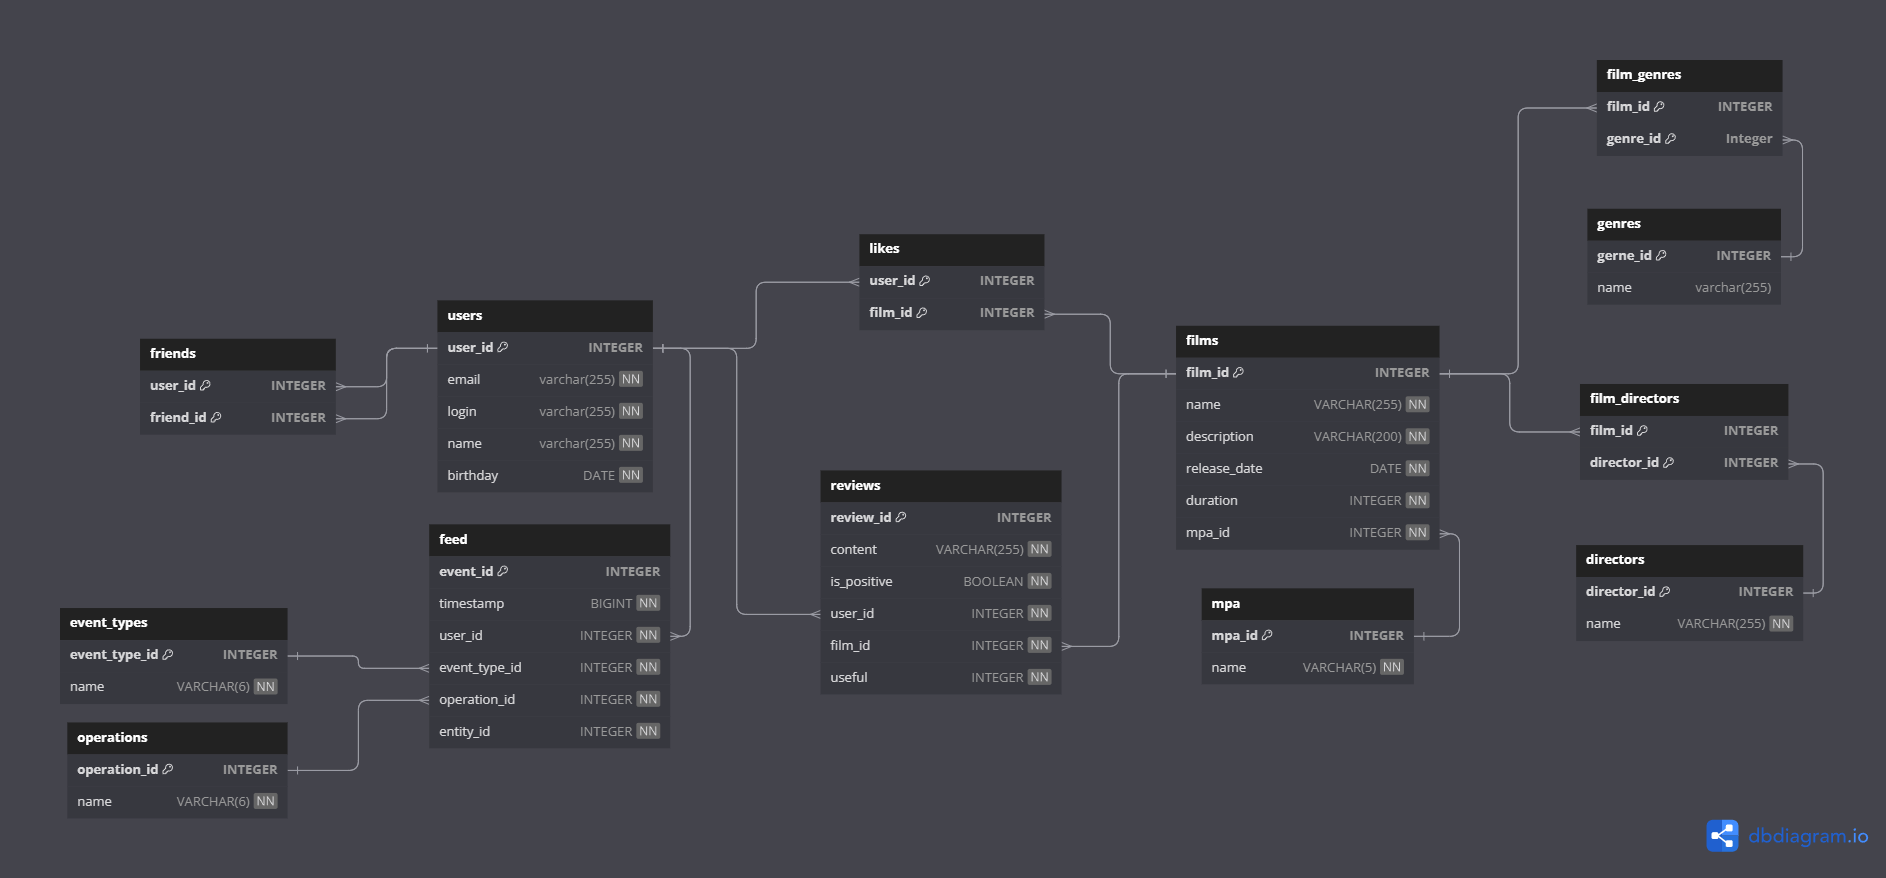
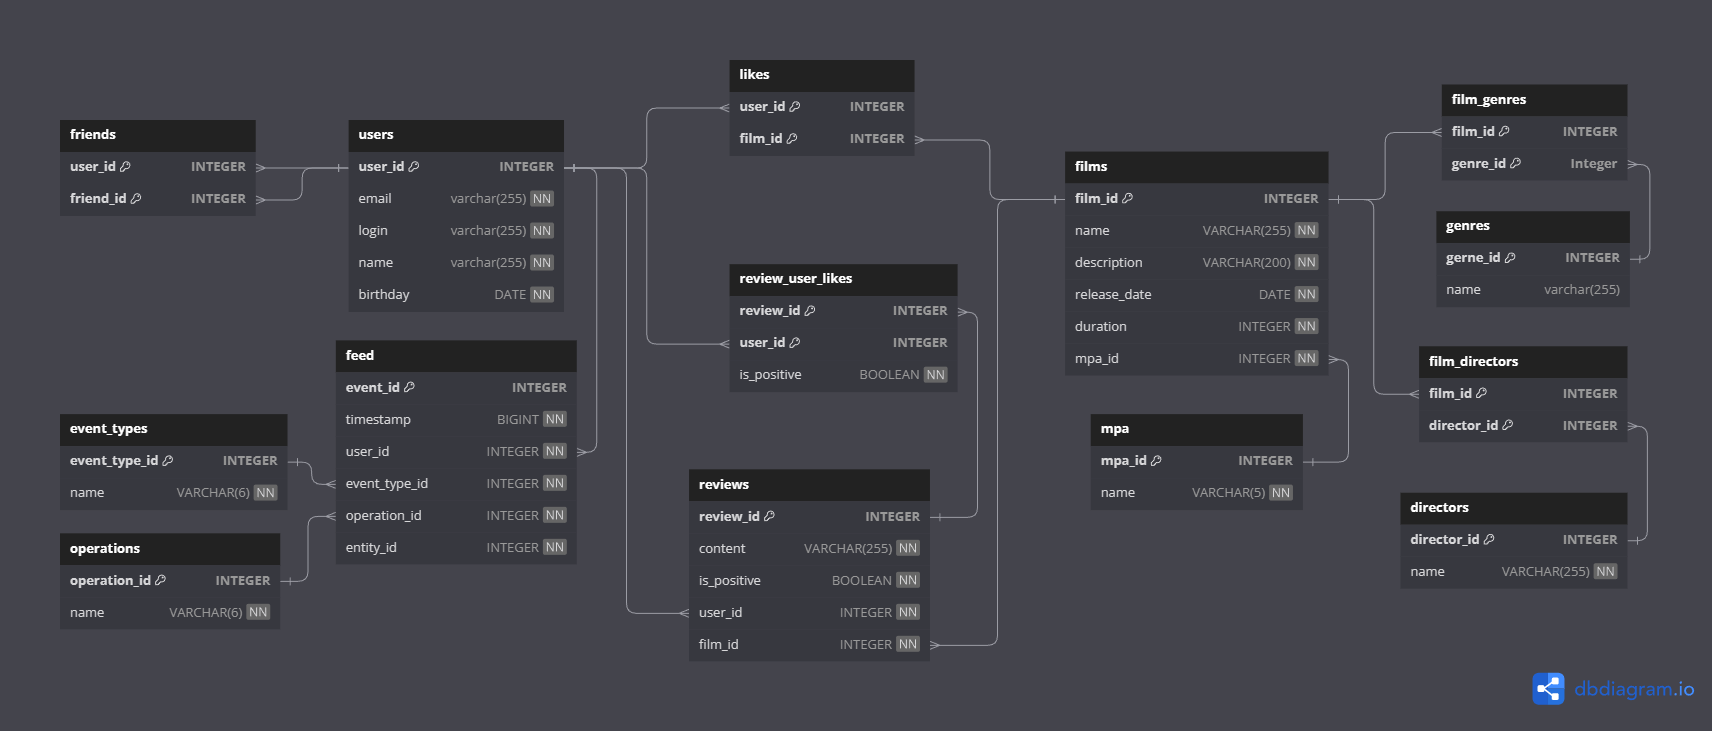
Добавлено поле directors для Film, добавлены модели Director, Event и Review, обновлена база данных

diff --git a/src/main/java/ru/yandex/practicum/filmorate/model/Review.java b/src/main/java/ru/yandex/practicum/filmorate/model/Review.java
@@ -1,0 +1,21 @@
+package ru.yandex.practicum.filmorate.model;
+
+import lombok.Data;
+
+import javax.validation.constraints.NotBlank;
+import javax.validation.constraints.NotNull;
+import javax.validation.constraints.Positive;
+
+@Data
+public class Review {
+    private int id;
+    @NotBlank(message = "Содержание отзыва не может быть пустым или null")
+    private String content;
+    @NotNull(message = "Отзыв должен быть положительный(true) или отрицательный(false)")
+    private boolean isPositive;
+    @Positive(message = "id пользовителя должен быть положительным числом")
+    private int userId;
+    @Positive(message = "id фильма должен быть положительным числом")
+    private int filmId;
+    private int useful;
+}

diff --git a/src/main/java/ru/yandex/practicum/filmorate/model/Film.java b/src/main/java/ru/yandex/practicum/filmorate/model/Film.java
@@ -1,9 +1,9 @@
 package ru.yandex.practicum.filmorate.model;
 
 import lombok.Data;
-import ru.yandex.practicum.filmorate.validation.DateNonBefore;
 import ru.yandex.practicum.filmorate.validation.CorrectGenresId;
 import ru.yandex.practicum.filmorate.validation.CorrectMpaId;
+import ru.yandex.practicum.filmorate.validation.DateNonBefore;
 
 import javax.validation.constraints.NotBlank;
 import javax.validation.constraints.NotNull;
@@ -30,4 +30,5 @@ public class Film {
     @CorrectGenresId
     private Set<Genre> genres;
     private Set<Integer> userLikes;
+    private Set<Director> directors;
 }

diff --git a/src/main/java/ru/yandex/practicum/filmorate/model/Event.java b/src/main/java/ru/yandex/practicum/filmorate/model/Event.java
@@ -1,0 +1,15 @@
+package ru.yandex.practicum.filmorate.model;
+
+import lombok.Data;
+import ru.yandex.practicum.filmorate.model.enumerations.EventType;
+import ru.yandex.practicum.filmorate.model.enumerations.Operation;
+
+@Data
+public class Event {
+    private int id;
+    private long timestamp;
+    private int userId;
+    private EventType eventType;
+    private Operation operation;
+    private int entityId;
+}

diff --git a/src/main/java/ru/yandex/practicum/filmorate/storage/film/DBFilmStorage.java b/src/main/java/ru/yandex/practicum/filmorate/storage/film/DBFilmStorage.java
@@ -119,6 +119,9 @@ public class DBFilmStorage implements FilmStorage {
         if (film.getGenres() == null) {
             film.setGenres(new HashSet<>());
         }
+        if (film.getDirectors() == null) {
+            film.setDirectors(new HashSet<>());
+        }
     }
 
     private void checkNonContainsFilm(int filmId) {

diff --git a/src/main/java/ru/yandex/practicum/filmorate/model/Director.java b/src/main/java/ru/yandex/practicum/filmorate/model/Director.java
@@ -1,0 +1,12 @@
+package ru.yandex.practicum.filmorate.model;
+
+import lombok.Data;
+
+import javax.validation.constraints.NotBlank;
+
+@Data
+public class Director {
+    private int id;
+    @NotBlank(message = "Поле name режиссёра должно быть заполнено")
+    private String name;
+}

diff --git a/src/main/java/ru/yandex/practicum/filmorate/model/enumerations/EventType.java b/src/main/java/ru/yandex/practicum/filmorate/model/enumerations/EventType.java
@@ -1,0 +1,5 @@
+package ru.yandex.practicum.filmorate.model.enumerations;
+
+public enum EventType {
+    LIKE, REVIEW, FRIEND
+}

diff --git a/src/main/java/ru/yandex/practicum/filmorate/model/enumerations/Operation.java b/src/main/java/ru/yandex/practicum/filmorate/model/enumerations/Operation.java
@@ -1,0 +1,5 @@
+package ru.yandex.practicum.filmorate.model.enumerations;
+
+public enum Operation {
+    REMOVE, ADD, UPDATE
+}
